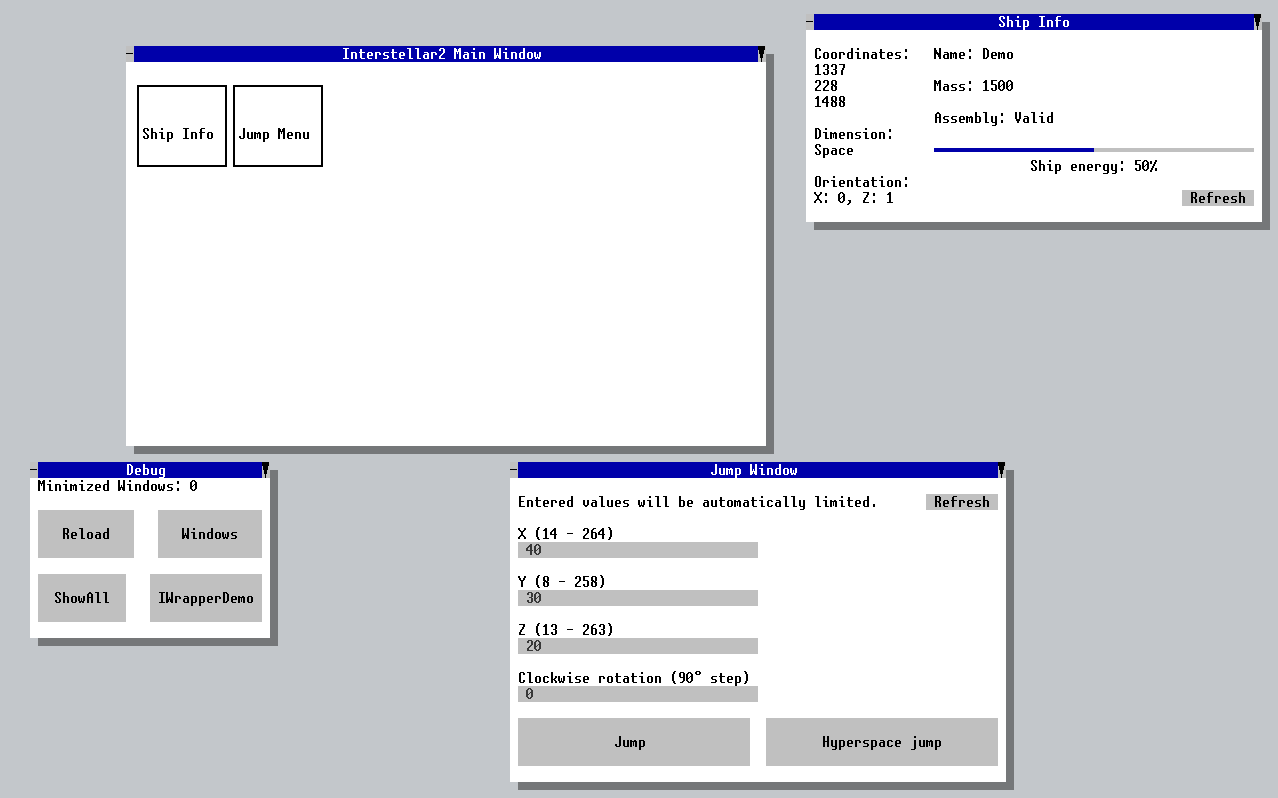
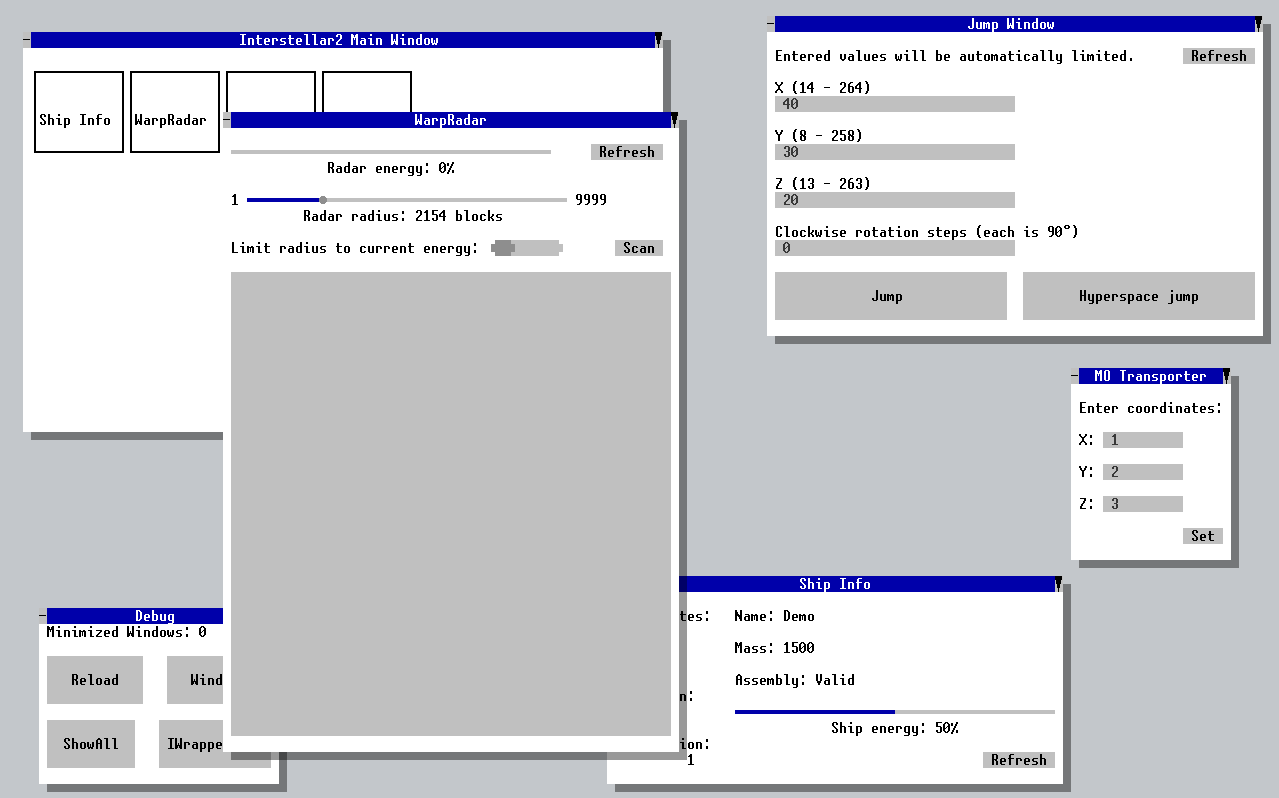
Added MO Transporter support

diff --git a/README.md b/README.md
@@ -4,15 +4,24 @@ Interstellar 2 is something like Desktop Environment created to control WarpDriv
 ![alt text](https://raw.githubusercontent.com/IteratorW/Interstellar2/master/Pictures/preview.png)
 
 ## Installing
-
+`pastebin run 1bVb0fvh`
 Please note that you need OpenOS and full level 3 computer for this program.
-To install it, simply run `pasebin run 1bVb0fvh`
 
 ## Features
 - [x] Ship info window
 - [x] Ship jump window
 - [x] WarpDrive Radar control
+- [x] Matter Overdrive Transporter support to easily set coordinates from a WarpRadar scan.
 - [ ] Ship move logging using custom protocols
 - [ ] Full ship settings window
 - [ ] Other ship features such as crew management
 - [ ] Other WarpDrive components support, such as cloaking device, lasers, etc.
+
+## MO Transporter Notes
+Matter Overdrive Transporter support might be buggy at times. Entered coordinates are not being displayed in the transporter since its api is a buggy mess.
+
+
+To connect a transporter to your computer, you need to use an adapter.
+
+
+Before setting the points in IS2, remove all points from the transporter and create only one. Don't change it. After that you can start using it in the program.
